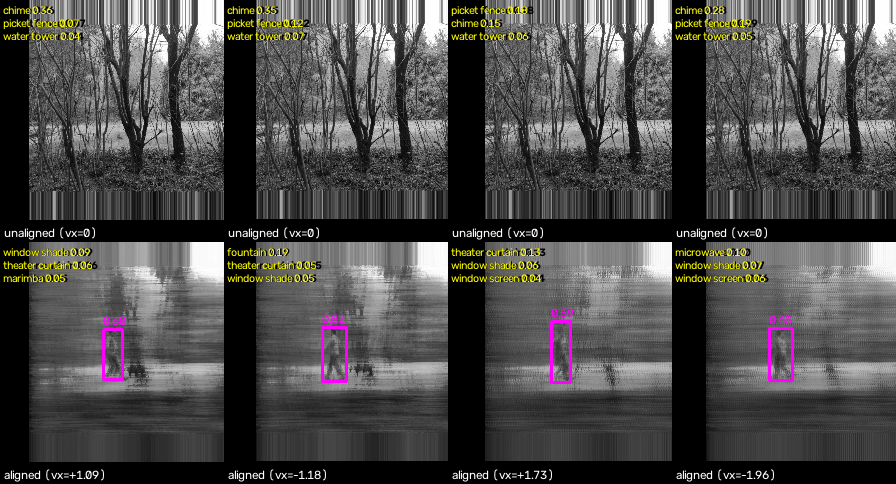
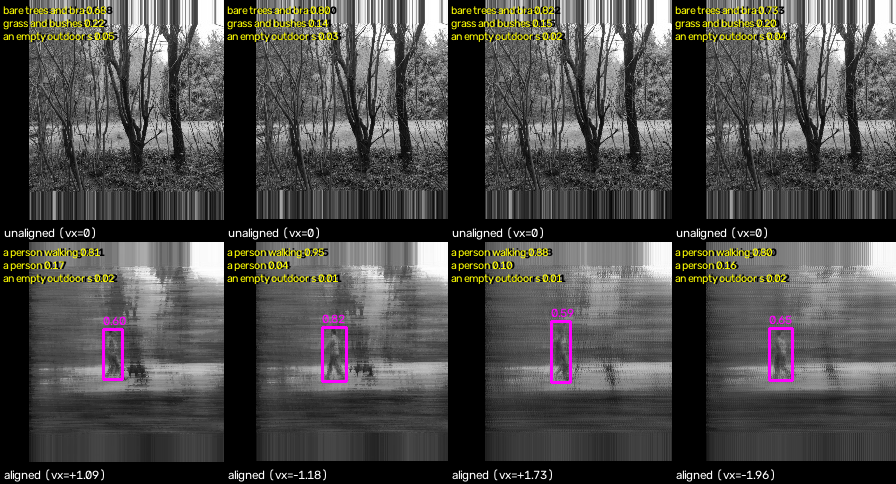
Replace ImageNet classification with CLIP zero-shot: a classifier that HAS a person class
User's correction: ImageNet-1000 was the wrong tool - it has no person class, so no threshold on
it could ever answer the actual question, only a weaker proxy (is the top guess human-adjacent).
Asked which alternative before building (ImageNet / person re-ID / face recognition), since none
were set up on this machine; picked ImageNet classification then, now corrected on the direct
follow-up.

CLIP (Radford et al. 2021) sidesteps a fixed taxonomy entirely - classes are arbitrary text, so one
of them can just BE "a person". Installed open_clip_torch (ViT-B-32-quickgelu, OpenAI weights -
the quickgelu variant specifically, since the plain ViT-B-32 config warns of an activation
mismatch against the openai-pretrained checkpoint). Zero-shot scored against 5 short text classes
including "a person" and "a person walking", each ensembled over 4 prompt templates (Radford et
al. 2021 sec 3.1.4 - averaging multiple phrasings before use, standard practice for reducing
single-prompt wording sensitivity).

    python -m tracking.eval.gt_integrated_image --seq seq1_gt --window 31 --limit 4 \
        --caption simple --layout grid --yolo --classify

RESULT: CLIP P(person) 0.00 -> 0.96-0.99 across all four segments, unaligned to aligned - top-1
shifts from 'bare trees and branches' to 'a person walking' every time. Confirms the YOLO finding
with a genuinely different mechanism (contrastive image-text similarity, not object detection).
[…]

diff --git a/tracking/eval/gt_integrated_image.py b/tracking/eval/gt_integrated_image.py
@@ -67,24 +67,63 @@ def build_gt_winner(gt: dict, run: tuple, w: int, h: int):
     return dict(frames=list(int(t) for t in local), history=history, vx=vx), abs_idx
 
 
-def classify(model, categories, img, device, topk=3):
-    """Top-k ImageNet-1000 predictions for one greyscale crop, as [(label, confidence), ...].
+# CLIP zero-shot, not a fixed-taxonomy classifier: ImageNet-1000 (tried first) has no "person"
+# class at all, so no threshold or top-k on it could ever answer the actual question. CLIP
+# (Radford et al. 2021) sidesteps a fixed label set entirely - the "classes" are just text
+# strings, so one of them can simply BE "a person". Template ensembling (multiple phrasings
+# averaged before use) is the standard way to reduce sensitivity to a single prompt's wording
+# (Radford et al. 2021, sec 3.1.4) - single-prompt zero-shot is known to be noisier.
+CLIP_TEMPLATES = ('a photo of {}.', 'a blurry photo of {}.', 'a low resolution photo of {}.',
+                  'a photo of {} outdoors.')
+CLIP_CLASSES = ('a person', 'a person walking', 'bare trees and branches',
+                'an empty outdoor scene with no people', 'grass and bushes')
+PERSON_CLASSES = ('a person', 'a person walking')       # near-synonyms - reported COMBINED, not
+                                                          # as separate buckets (see p_person below)
 
-    ImageNet-1000 HAS NO "person" CLASS. This is not a detection-equivalent test: it cannot
-    confirm "a person is here" the way YOLO's box does. What it CAN show is whether the network's
-    best guess is at all human-adjacent (clothing, sports gear commonly photographed with people)
-    versus something from the scene's own furniture (trees, foliage) - a much weaker signal, kept
-    honest rather than oversold.
+
+def p_person(pred):
+    """Combined probability mass on ANY person-related class, not just the literal 'a person'
+    bucket. 'a person' and 'a person walking' compete for the same underlying concept in a
+    softmax over CLIP_CLASSES, so reading only 'a person' fragments that mass across two
+    near-synonyms and understates it - caught here by checking against the drawn top-3 image
+    before trusting the printed number: top-1 in every aligned panel was 'a person walking' at
+    0.80-0.95, while the 'a person'-only metric reported as low as 0.04 for the same image."""
+    d = dict(pred)
+    return sum(d.get(c, 0.0) for c in PERSON_CLASSES)
+
+
+def build_clip_text_features(model, tokenizer, device):
+    import torch
+    with torch.no_grad():
+        feats = []
+        for cls in CLIP_CLASSES:
+            prompts = tokenizer([t.format(cls) for t in CLIP_TEMPLATES]).to(device)
+            f = model.encode_text(prompts)
+            f = f / f.norm(dim=-1, keepdim=True)
+            feats.append(f.mean(dim=0))                  # ensemble: average, THEN renormalise
+        feats = torch.stack(feats)
+        return feats / feats.norm(dim=-1, keepdim=True)
+
+
+def classify(model, text_features, preprocess, img, device, topk=3):
+    """Top-k CLIP_CLASSES predictions for one greyscale crop, as [(label, probability), ...].
+
+    Probability comes from CLIP's own convention: cosine similarity between image and text
+    embeddings, scaled by the model's learned logit_scale, softmax over the CLASS set (not over
+    the whole vocabulary - there is no vocabulary, only the handful of classes given here). That
+    makes this a closed-set decision among CLIP_CLASSES specifically, not an open-ended one; a
+    photo of something in none of those categories will still be forced to pick its closest match.
     """
     import torch
-    rgb = np.repeat(img[:, :, None], 3, axis=2).astype(np.float32) / 255.0
-    mean = np.array([0.485, 0.456, 0.406], dtype=np.float32)
-    std = np.array([0.229, 0.224, 0.225], dtype=np.float32)
-    x = torch.from_numpy(((rgb - mean) / std).transpose(2, 0, 1)).unsqueeze(0).float().to(device)
+    from PIL import Image
+    rgb = Image.fromarray(np.repeat(img[:, :, None], 3, axis=2))
+    x = preprocess(rgb).unsqueeze(0).to(device)
     with torch.no_grad():
-        probs = torch.softmax(model(x), dim=1)[0]
-    top = torch.topk(probs, topk)
-    return [(categories[i], float(p)) for p, i in zip(top.values.cpu(), top.indices.cpu())]
+        f = model.encode_image(x)
+        f = f / f.norm(dim=-1, keepdim=True)
+        probs = (model.logit_scale.exp() * f @ text_features.T).softmax(dim=-1)[0]
+    top = torch.topk(probs, min(topk, len(CLIP_CLASSES)))
+    return [(CLIP_CLASSES[i], float(p)) for p, i in zip(top.values.cpu(), top.indices.cpu())]
 
 
 def draw_classification(img, preds):
@@ -167,22 +206,25 @@ def main():
     p.add_argument('--yolo-conf', type=float, default=0.25)
     p.add_argument('--yolo-device', default='cuda')
     p.add_argument('--classify', action='store_true',
-                   help='additionally run torchvision ResNet-50 (ImageNet-1000) on both crops and '
-                        'draw its top-3 predictions. ImageNet has no "person" class, so this is a '
-                        'weaker check than --yolo: it shows whether the top guess is at all '
-                        'human-adjacent, not that a person was confirmed present.')
+                   help='additionally run CLIP zero-shot (ViT-B/32, OpenAI weights) on both crops, '
+                        'scored against an explicit small class set that includes "a person" - '
+                        'unlike a fixed-taxonomy classifier (ImageNet-1000 has no such class), '
+                        'CLIP lets the classes be arbitrary text, so the actual question can be '
+                        'asked directly. Reports P(person) per crop, not just a top-1 label.')
     p.add_argument('--out', default=None)
     a = p.parse_args()
 
     model = None
-    clf, categories, clf_device = None, None, None
+    clf, clf_text, clf_preprocess, clf_device = None, None, None, None
     if a.classify:
+        import open_clip
         import torch
-        from torchvision.models import ResNet50_Weights, resnet50
         clf_device = 'cuda' if torch.cuda.is_available() else 'cpu'
-        weights = ResNet50_Weights.IMAGENET1K_V2
-        categories = weights.meta['categories']
-        clf = resnet50(weights=weights).to(clf_device).eval()
+        clf, _, clf_preprocess = open_clip.create_model_and_transforms(
+            'ViT-B-32-quickgelu', pretrained='openai')
+        clf = clf.to(clf_device).eval()
+        tokenizer = open_clip.get_tokenizer('ViT-B-32-quickgelu')
+        clf_text = build_clip_text_features(clf, tokenizer, clf_device)
 
     if a.yolo:
         import os as _os
@@ -224,15 +266,16 @@ def main():
                   f'   aligned {"fires " + format(best(det_aligned), ".2f") if det_aligned else "nothing"}')
 
         if clf is not None:
-            pred_static = classify(clf, categories, static if static.ndim == 2 else
+            pred_static = classify(clf, clf_text, clf_preprocess, static if static.ndim == 2 else
                                    cv2.cvtColor(static, cv2.COLOR_BGR2GRAY), clf_device)
-            pred_aligned = classify(clf, categories, gt_fused if gt_fused.ndim == 2 else
-                                    cv2.cvtColor(gt_fused, cv2.COLOR_BGR2GRAY), clf_device)
+            pred_aligned = classify(clf, clf_text, clf_preprocess, gt_fused if gt_fused.ndim == 2
+                                    else cv2.cvtColor(gt_fused, cv2.COLOR_BGR2GRAY), clf_device)
             static, gt_fused = draw_classification(static, pred_static), \
                 draw_classification(gt_fused, pred_aligned)
             clf_tally.append((pred_static, pred_aligned))
-            print(f'    ImageNet top-1: unaligned {pred_static[0][0]!r} {pred_static[0][1]:.2f}'
-                  f'   aligned {pred_aligned[0][0]!r} {pred_aligned[0][1]:.2f}')
+            print(f'    CLIP P(person): unaligned {p_person(pred_static):.2f}'
+                  f'   aligned {p_person(pred_aligned):.2f}  '
+                  f'(top-1 unaligned {pred_static[0][0]!r}, aligned {pred_aligned[0][0]!r})')
 
         n = run[1] - run[0] + 1
         left_cap = 'unaligned (vx=0)' if a.caption == 'simple' else \
@@ -270,10 +313,12 @@ def main():
         fa = sum(g for _, g in yolo_tally)
         print(f'\nYOLO fired on {fu}/{n} unaligned segments, {fa}/{n} aligned segments')
     if clf_tally:
-        print(f'\nImageNet top-1 per segment (no "person" class exists - reading these as '
-              f'human-adjacent vs scene-adjacent, not as person confirmation):')
+        print(f'\nCLIP P(person) per segment, unaligned -> aligned:')
         for i, (pu, pa) in enumerate(clf_tally):
-            print(f'  seg {i}: unaligned {pu[0][0]!r}  ->  aligned {pa[0][0]!r}')
+            print(f'  seg {i}: {p_person(pu):.2f} -> {p_person(pa):.2f}')
+        mean_u = float(np.mean([p_person(pu) for pu, _ in clf_tally]))
+        mean_a = float(np.mean([p_person(pa) for _, pa in clf_tally]))
+        print(f'  mean: {mean_u:.2f} -> {mean_a:.2f}')
 
 
 if __name__ == '__main__':
